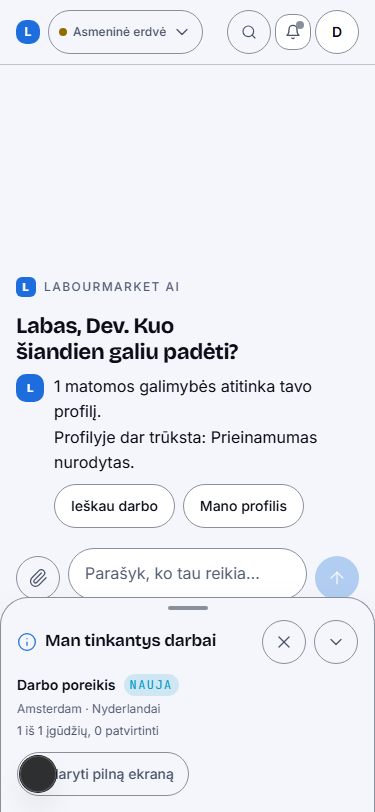
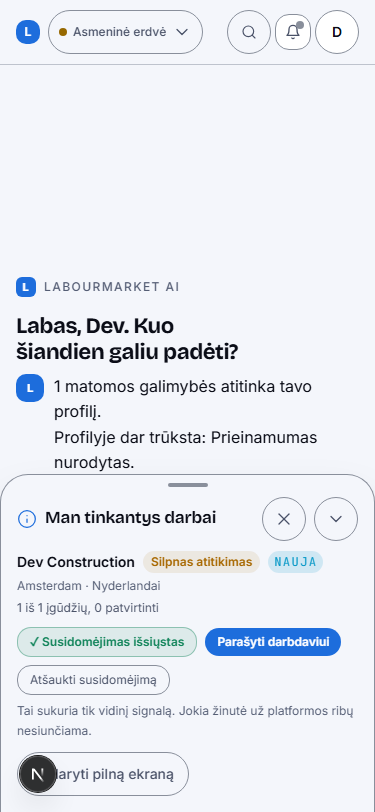
test(w3): prove the consolidation — one renderer, one action surface
Three scenarios that pin the merge itself rather than either half of it:

  - the deleted renderer's testids (chat-employer-match-card, msg-employer-match,
    chat-employer-match-open) must appear NOWHERE. If one returns, so did the
    second renderer;
  - the panel row kept everything only the thread card had: the company name,
    an honest fit badge whose colour follows the canonical status (a non-strong
    fit may never carry the success colour), and the World State drill-in that
    selects a match WITHOUT navigating;
  - "Domiuosi" is the one action surface and it really writes: exactly one
    interest control per row, clicking it changes the reported state, and the
    outcome appears where the person acted.

12/12 green, captured on a CLEAN build. The shared dev server had cached a
module I briefly deleted and kept reporting it missing, which would have made
any "0 console errors" claim false — so the proof ran in its own worktree on
its own port (the acceptance script documents exactly this second-session
case). Verified there: "Ieškau darbo" sets ?result=opportunities and opens the
panel with the row and its control, 0 thread cards, 0 console errors, 0 failed
requests, and the interest write survives a reload.

Evidence re-captured from that clean build.

diff --git a/apps/web/tests/e2e/w3-second-dashboard.spec.ts b/apps/web/tests/e2e/w3-second-dashboard.spec.ts
@@ -381,4 +381,80 @@ test.describe("row 5 — the recommendations card became a result", () => {
     // And it must still be dismissible with one control on a phone.
     await expect(page.getByTestId("context-panel-close")).toBeVisible();
   });
+
+  /**
+   * THE CONSOLIDATION ITSELF.
+   *
+   * Before this change one answer had two renderers: the chat thread drew its
+   * own job cards with their own copy of the interest control, and the Context
+   * Panel result drew the same rows read-only — and nothing could even open the
+   * panel. These cases pin that exactly one of them survived, and that the
+   * survivor kept everything the other one could do.
+   */
+  test("the thread no longer draws job cards anywhere in the product", async ({ page }) => {
+    await page.goto("/lt/dashboard?result=opportunities");
+    await expect(page.getByTestId("opportunities-open-full").first()).toBeVisible();
+
+    // The deleted renderer's own testids. If either comes back, the second
+    // renderer came back with it.
+    await expect(page.getByTestId("chat-employer-match-card")).toHaveCount(0);
+    await expect(page.getByTestId("msg-employer-match")).toHaveCount(0);
+    await expect(page.getByTestId("chat-employer-match-open")).toHaveCount(0);
+  });
+
+  test("the panel row kept everything the deleted card could do", async ({ page }) => {
+    await page.goto("/lt/dashboard?result=opportunities");
+    const rows = page.locator('li[data-testid^="opportunities-row-"]');
+    await expect(page.getByTestId("opportunities-open-full").first()).toBeVisible();
+    if ((await rows.count()) === 0) test.skip(true, "this identity has no matches");
+
+    // WHO is hiring, and an HONEST fit badge — the two things only the thread
+    // card used to show. The badge must carry the canonical status, so a weak
+    // fit can never be painted with the success colour.
+    const fit = page.getByTestId("opportunities-match-fit").first();
+    await expect(fit).toBeVisible();
+    const status = await fit.getAttribute("data-fit-status");
+    expect(["strong", "possible", "weak", "insufficient"]).toContain(status);
+    const cls = (await fit.getAttribute("class")) ?? "";
+    if (status !== "strong") expect(cls).not.toContain("state-success");
+
+    // The drill-in survived: selecting a match writes World State rather than
+    // opening a page, so the job's full facts stay one tap away in the panel.
+    const open = page.getByTestId("opportunities-match-open").first();
+    await expect(open).toBeVisible();
+    const before = page.url();
+    await open.click();
+    expect(page.url(), "selecting a match must not navigate").toBe(before);
+  });
+
+  test("'Domiuosi' is the ONE action surface, and it really writes", async ({ page }) => {
+    const failed: string[] = [];
+    page.on("response", (r) => {
+      if (r.status() >= 400) failed.push(`${r.status()} ${r.url()}`);
+    });
+
+    await page.goto("/lt/dashboard?result=opportunities");
+    await expect(page.getByTestId("opportunities-open-full").first()).toBeVisible();
+
+    const interest = page.getByTestId("opportunities-match-interest").first();
+    if ((await interest.count()) === 0) {
+      test.skip(true, "the owner-gated interest table is not applied here");
+    }
+
+    // Exactly ONE interest control per row — never the row's own plus a
+    // leftover from the thread.
+    const rows = await page.locator('li[data-testid^="opportunities-row-"]').count();
+    expect(await page.getByTestId("opportunities-match-interest").count()).toBe(rows);
+
+    const button = interest.locator("button").first();
+    const label = (await button.innerText()).trim();
+    await button.click();
+
+    // The outcome is REAL: the control reports a changed state, and it reports
+    // it in the panel — the place the person acted.
+    await expect(interest).not.toHaveText(new RegExp(`^${label}$`), { timeout: 15_000 });
+    await expect(page.getByTestId("opportunities-match-interest").first()).toBeVisible();
+
+    expect(failed, failed.join("\n")).toEqual([]);
+  });
 });
